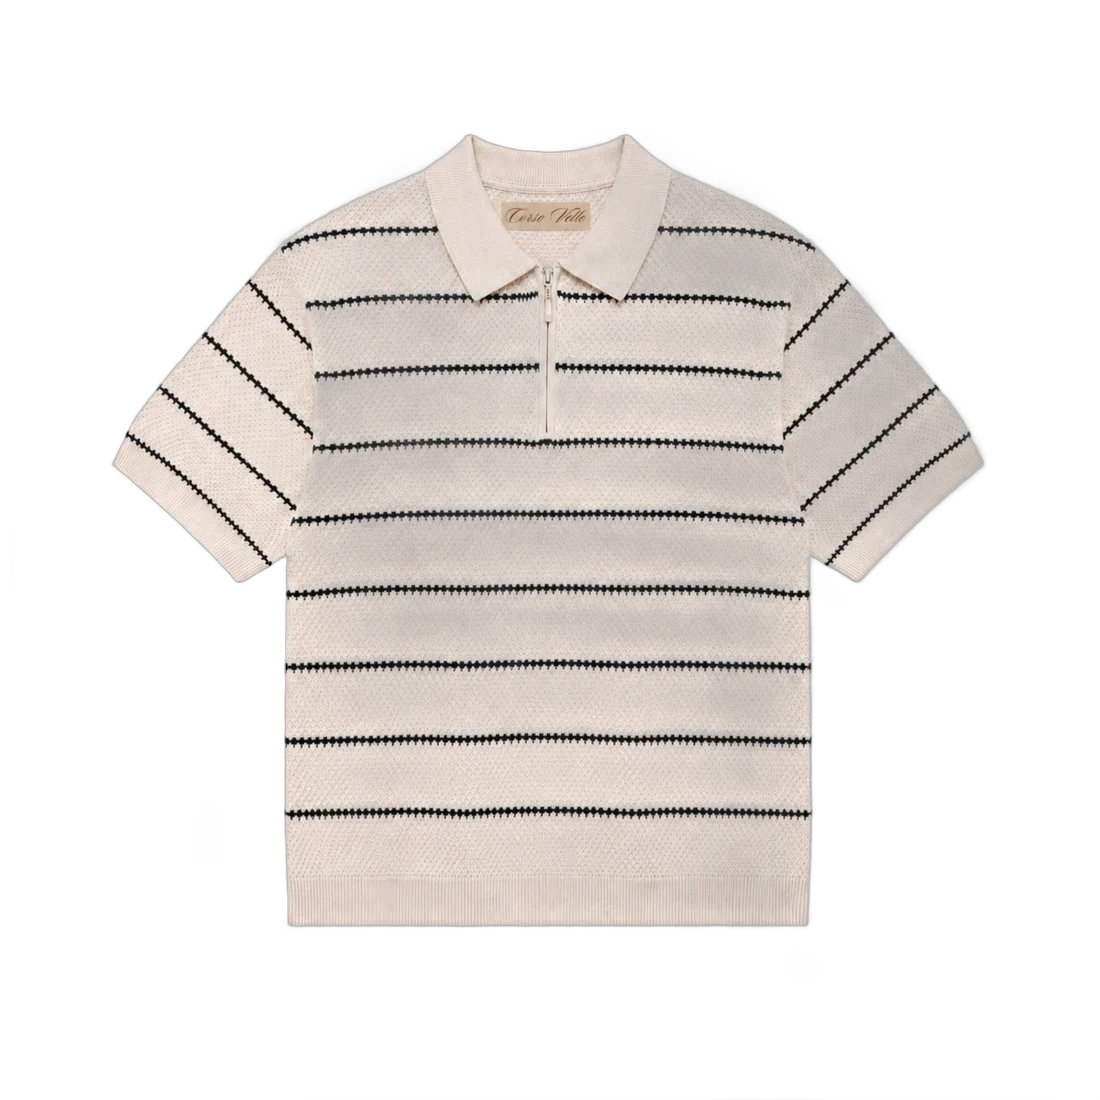
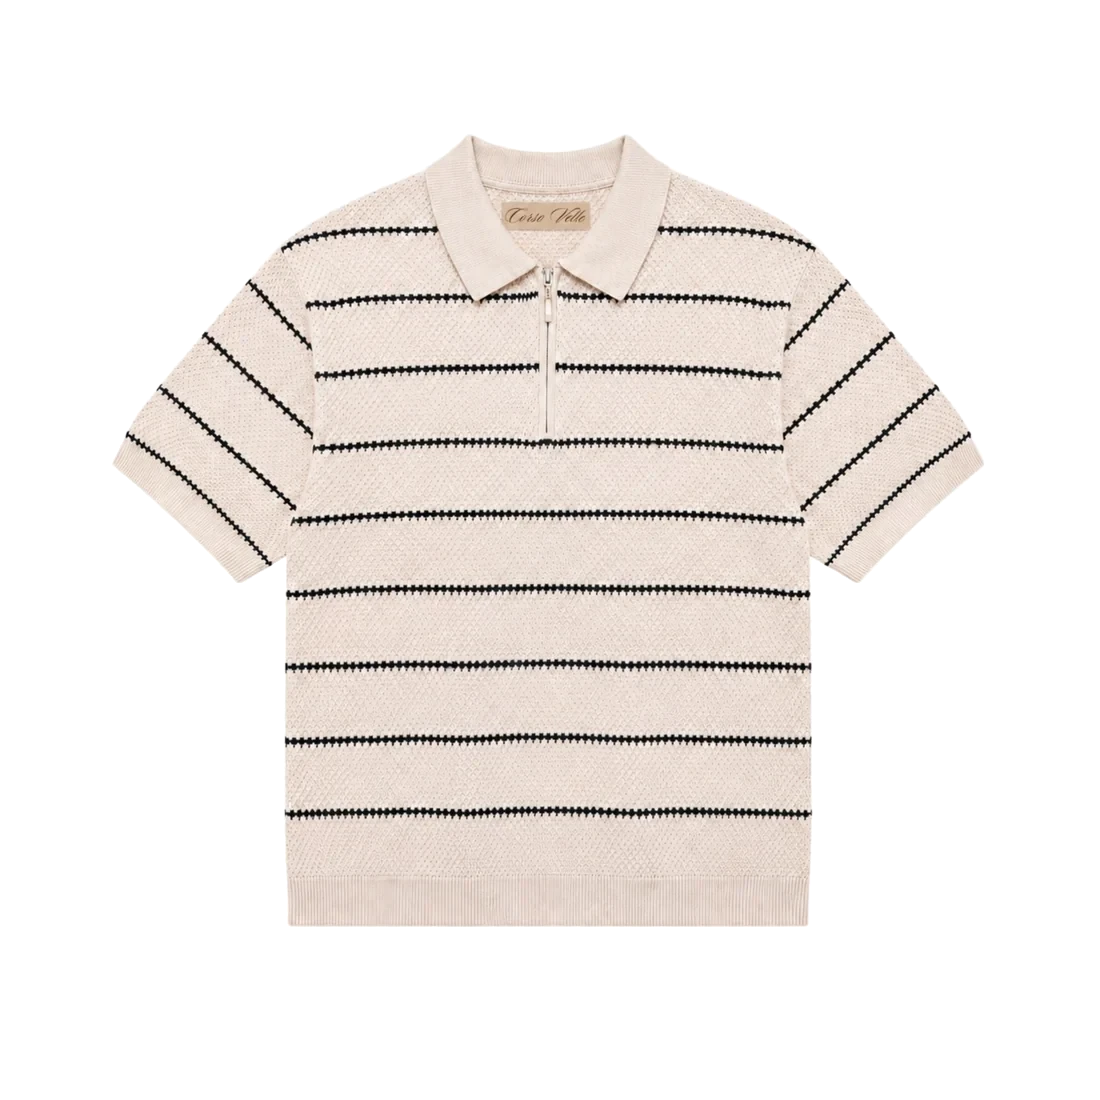
Gap under 9 TO 5; solid Bellagio polos on the rail
- Hero gains a 'Space below this section' setting; 9 TO 5 uses 56px.
- The two knit polos' cut-outs were part see-through (grey patches);
  rebuilt from the original colours with a solid body.

Changed region(s): [[0.2782, 0.1545, 0.8964, 0.7418], [0.2782, 0.1855, 0.3091, 0.2164], [0.2473, 0.2164, 0.2782, 0.2473]]

diff --git a/docs/SETTINGS-REFERENCE.md b/docs/SETTINGS-REFERENCE.md
@@ -1737,6 +1737,7 @@ Current section block cap: 16.
 | `text_align` — Text alignment | `select` | `auto` | `auto`: Follow the position; `left`: Left; `center`: Center; `right`: Right |
 | `content_width` — Content width | `range` | `1100` | 360–1400px, step 20 |
 | `block_gap` — Space between blocks | `range` | `22` | 8–56px, step 2 |
+| `space_below` — Space below this section | `range` | `0` | 0–160px, step 8 |
 | `parallax` — Parallax depth | `range` | `14` | 0–30%, step 2 |
 | `show_scroll_cue` — Show scroll cue | `checkbox` | `false` |  |
 | `scrim_style` — Text backdrop | `select` | `solid` | `none`: None; `solid`: Tint; `blur`: Progressive blur |
